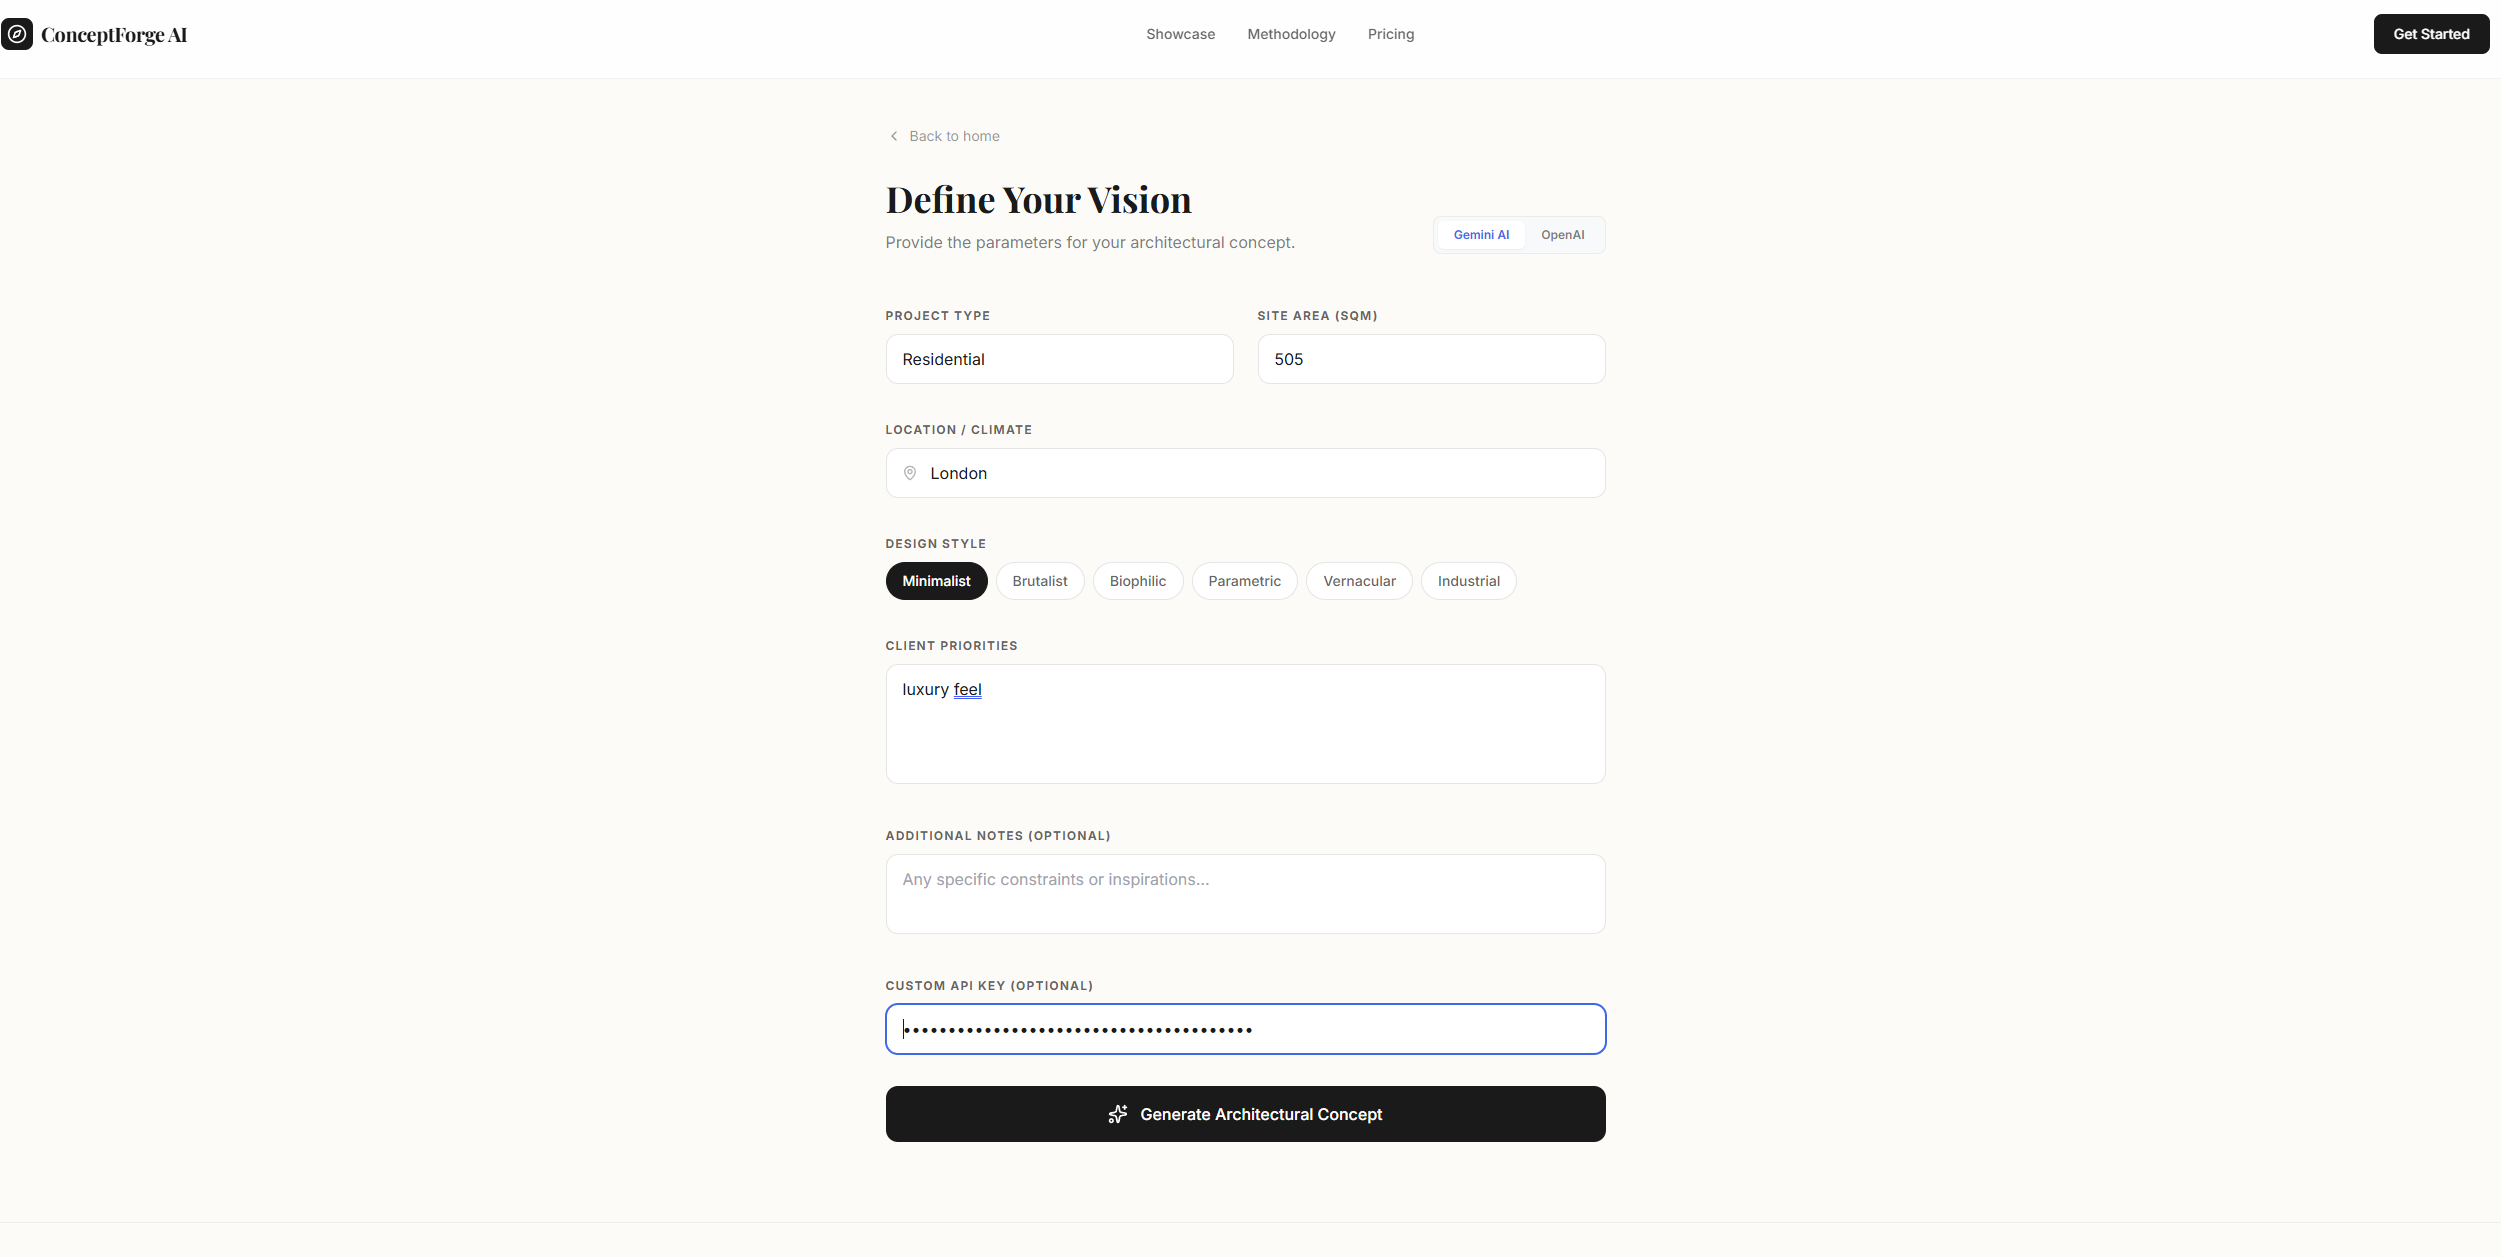
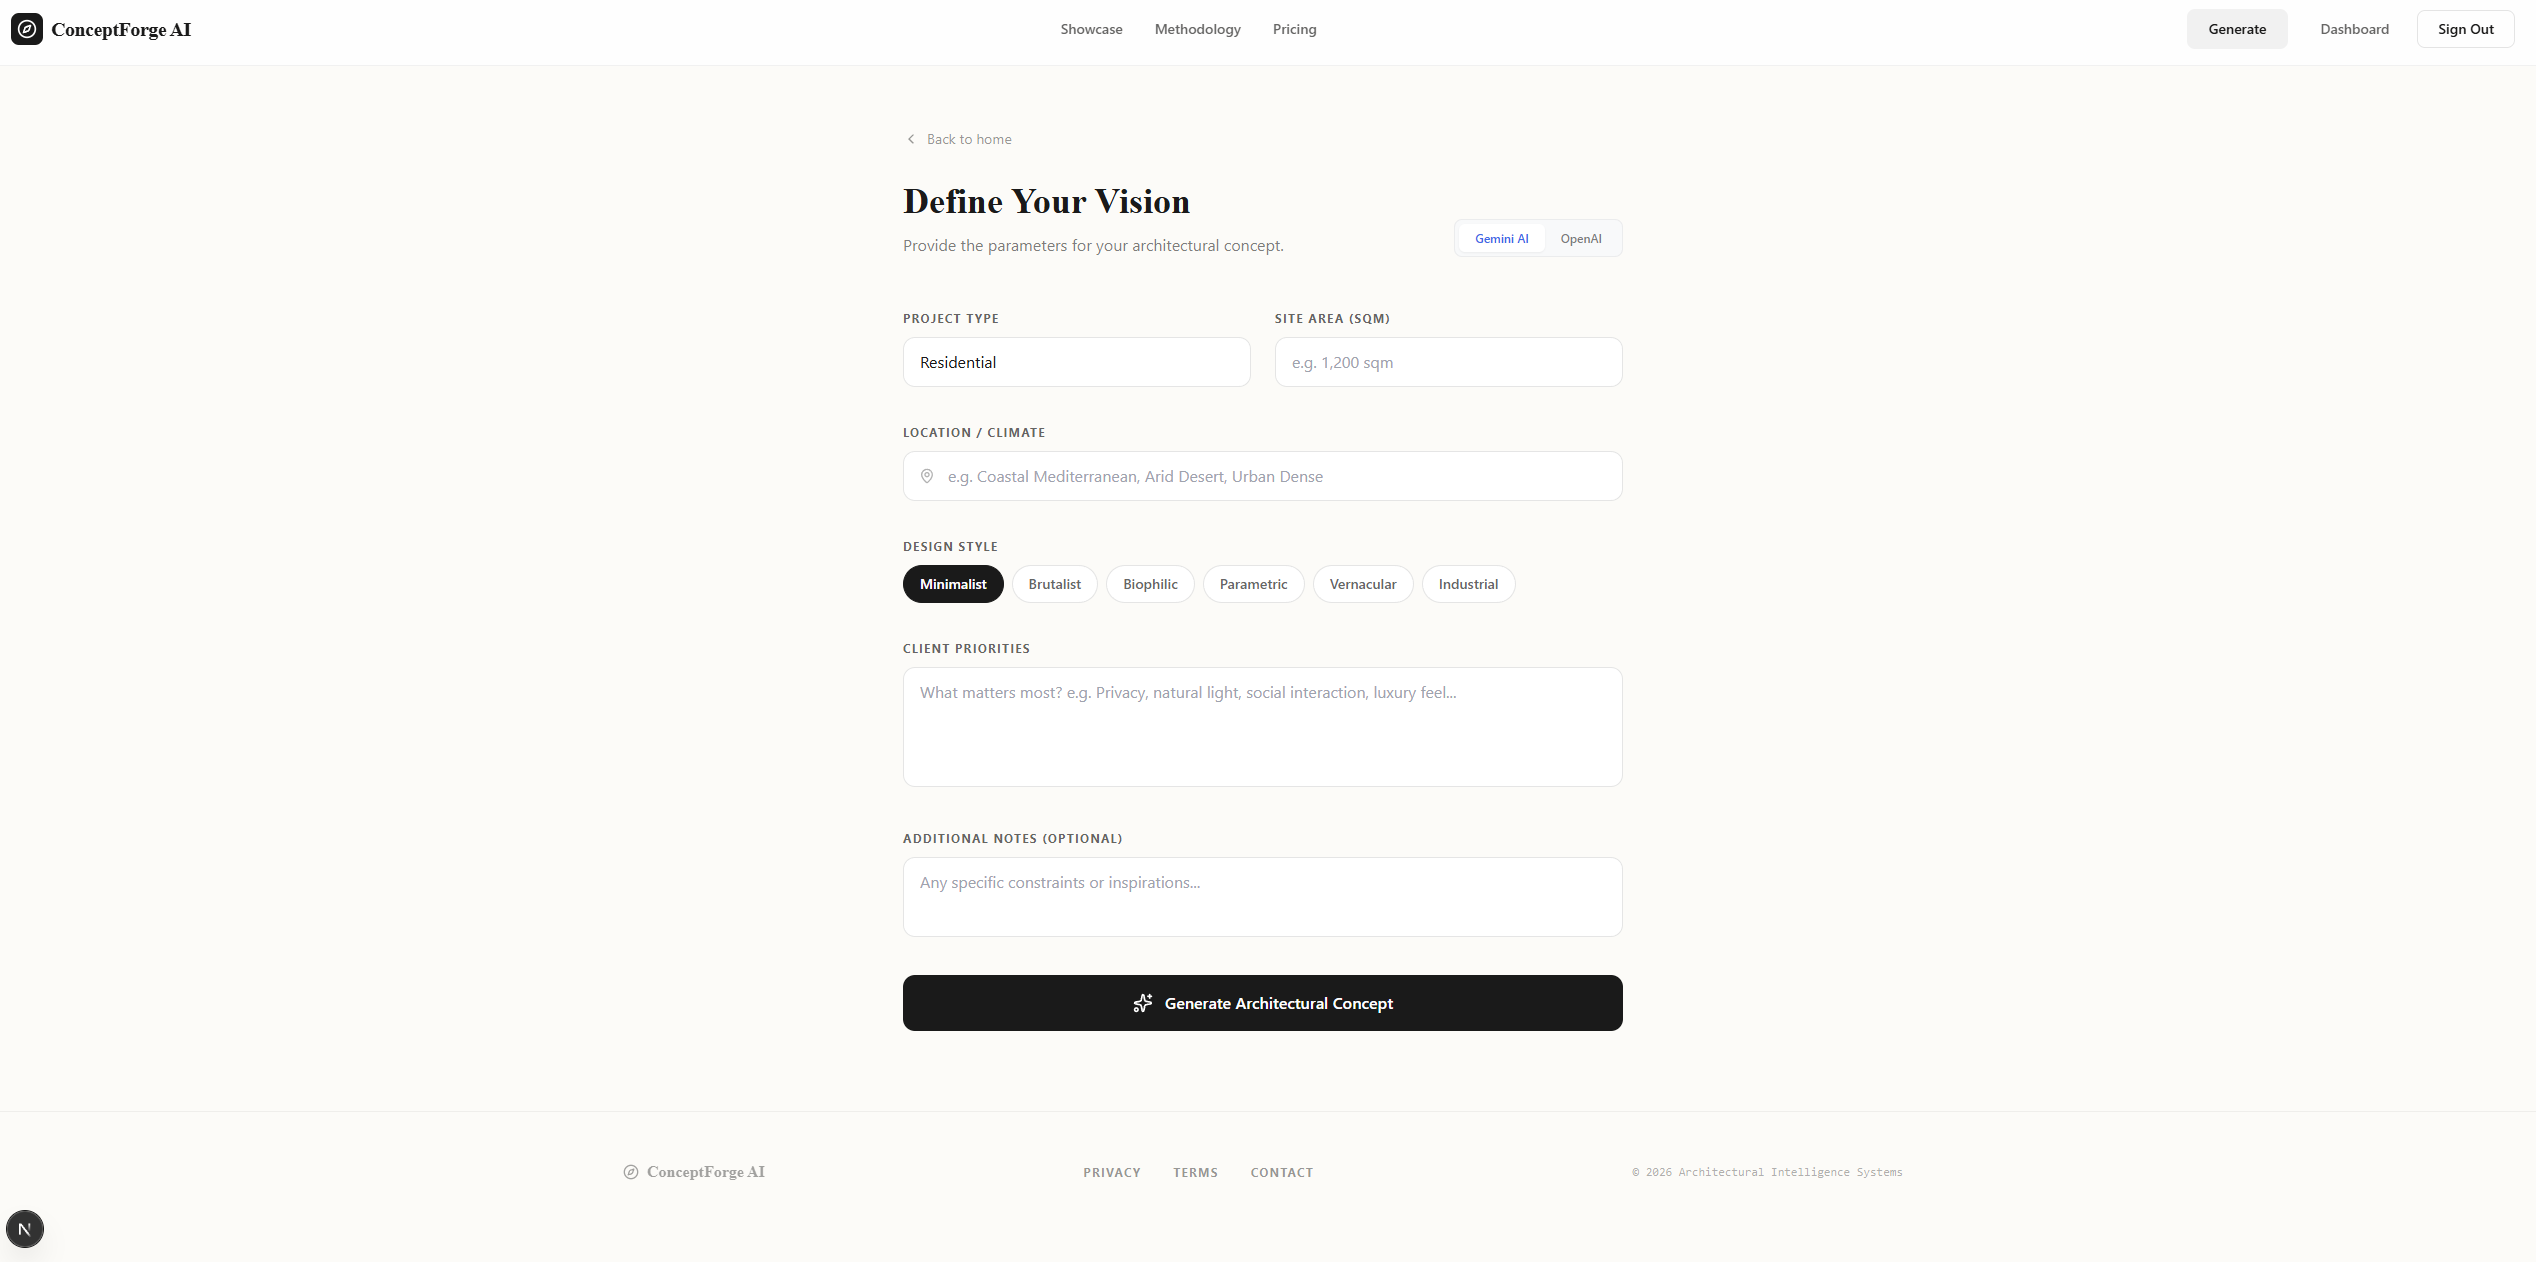
update readme.MD file

diff --git a/README.md b/README.md
@@ -1,6 +1,6 @@
 # ConceptForge AI
 
-An AI-powered architectural concept ideation tool built with Next.js 14, Tailwind CSS, and the Google Gemini / OpenAI APIs.
+An AI-powered architectural concept ideation tool built with Next.js 15, Supabase, Tailwind CSS, and the Google Gemini / OpenAI APIs.
 
 ConceptForge AI transforms project constraints (site area, location, client priorities, design style) into visionary architectural narratives. It acts as an early-stage ideation engine for architects and designers to rapidly synthesize contextual data and philosophical direction.
 
@@ -9,13 +9,24 @@ ConceptForge AI transforms project constraints (site area, location, client prio
 ### Landing Page
 ![Landing Page](./public/screenshots/conceptforge-ai-home.png)
 
+### User Onboarding & Auth
+![Onboarding](./public/screenshots/conceptforge-ai-onboarding.png)
+
 ### Concept Generator Form
 ![Generator Form](./public/screenshots/conceptforge-ai-form.png)
+
+### Dashboard & History
+![Dashboard](./public/screenshots/conceptforge-ai-dashboard.png)
 
 ### Results Output & Export
 ![Results View](./public/screenshots/conceptforge-ai-result.png)
 
 ## ✨ Features
+
+**🔐 Secure Authentication & Storage**
+- Complete auth flow (Sign up, login, session management) powered by Supabase Auth
+- Concepts are securely saved to a cloud PostgreSQL database
+- View your entire architectural concept history on your personal Dashboard
 
 **🧠 Dual AI Engine**
 - Seamlessly toggle between Google's Gemini and OpenAI
@@ -25,9 +36,9 @@ ConceptForge AI transforms project constraints (site area, location, client prio
 - Guarantees standardized layouts using strict LLM schemas
 - Generates concept overviews, philosophies, material palettes, and zoning breakdowns
 
-**🔑 Bring Your Own Key (BYOK)**
-- Securely provide your own API key directly from the browser
-- Handled safely via Next.js Server Actions 
+**🔑 LocalStorage BYOK (Bring Your Own Key)**
+- Securely provide your own API key to bypass rate limits
+- Keys are saved locally in your browser's memory and are *never* stored in our database
 
 **📄 One-Click PDF Exports**
 - Generate cleanly formatted PDF reports of your architectural concepts
@@ -38,8 +49,8 @@ ConceptForge AI transforms project constraints (site area, location, client prio
 - Displays clean UI feedback instead of raw JSON stack traces
 
 **✨ Premium UI/UX**
-- A buttery-smooth, highly aesthetic interface
-- Crafted with Tailwind CSS and Framer Motion
+- Built on Next.js 15 App Router
+- A buttery-smooth, highly aesthetic interface crafted with Tailwind CSS and Framer Motion
 
 ## 🚀 Getting Started
 
